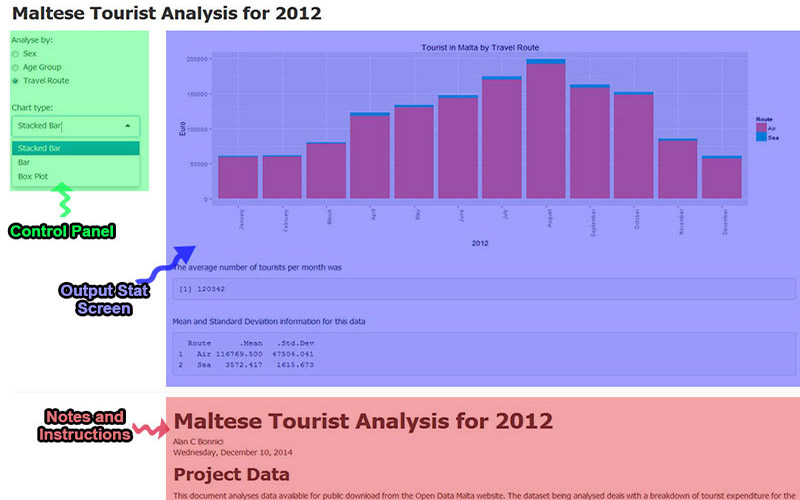
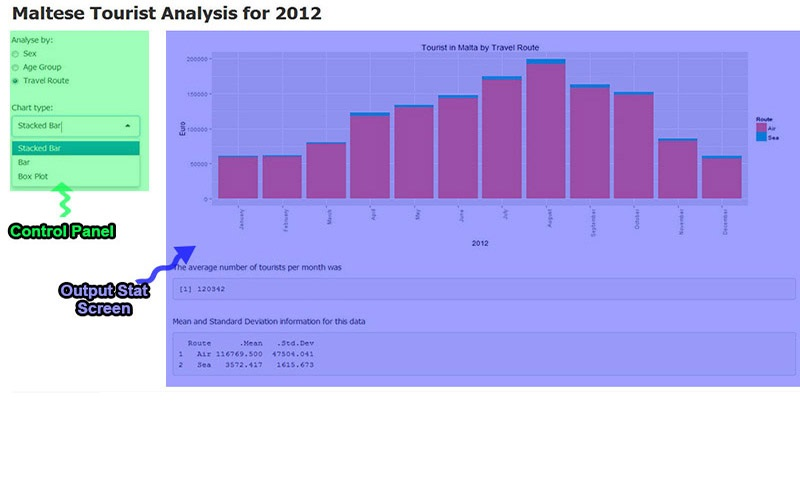
Documentation added

diff --git a/presentation/Tourist2012.md b/presentation/Tourist2012.md
@@ -1,7 +1,7 @@
 Maltese Tourist Analysis for 2012
 ========================================================
-author: Alan C. Bonnici
-date: 10th December 2014
+author: Tameem
+date: 20th April 2015
 ***
 <br>
 <br>
@@ -18,7 +18,7 @@ The shiny app analysis open data available from the **Open Data Malta** web site
 
 The data analysed relates to tourists visiting Malta during 2012. The source of the data is http://www.opendatamalta.org/ckan/dataset/50cfd96f-246e-4d57-a0ce-86c8ce88e9d6/resource/fad12a26-2965-404f-9320-c0bc82353315/download/Profileofdepartingtourists2012.csv.  
 
-It was downloaded on **10 December 2014**. 
+It was downloaded on 20 April 2015. 
 
 
 Data Cleansing
@@ -68,4 +68,6 @@ Males   April    63019
 Annotated screen shot of app
 ========================================================
 ![Shinyapp Screen Shot](shinyapp.jpg)  
-<center><a href="https://chribonn.shinyapps.io/devdataprod-016/" target="_blank">Click here to run app</a></center>
+
+
+Thank You!
